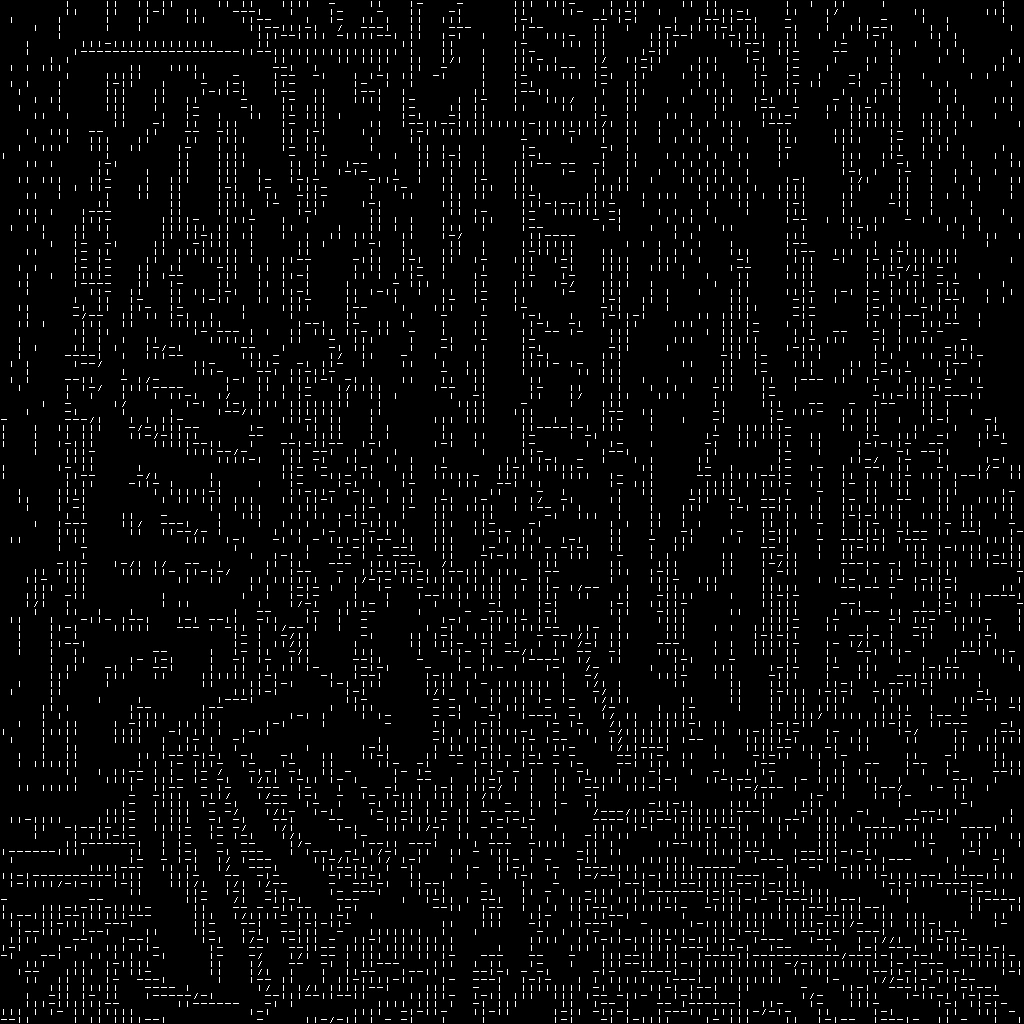
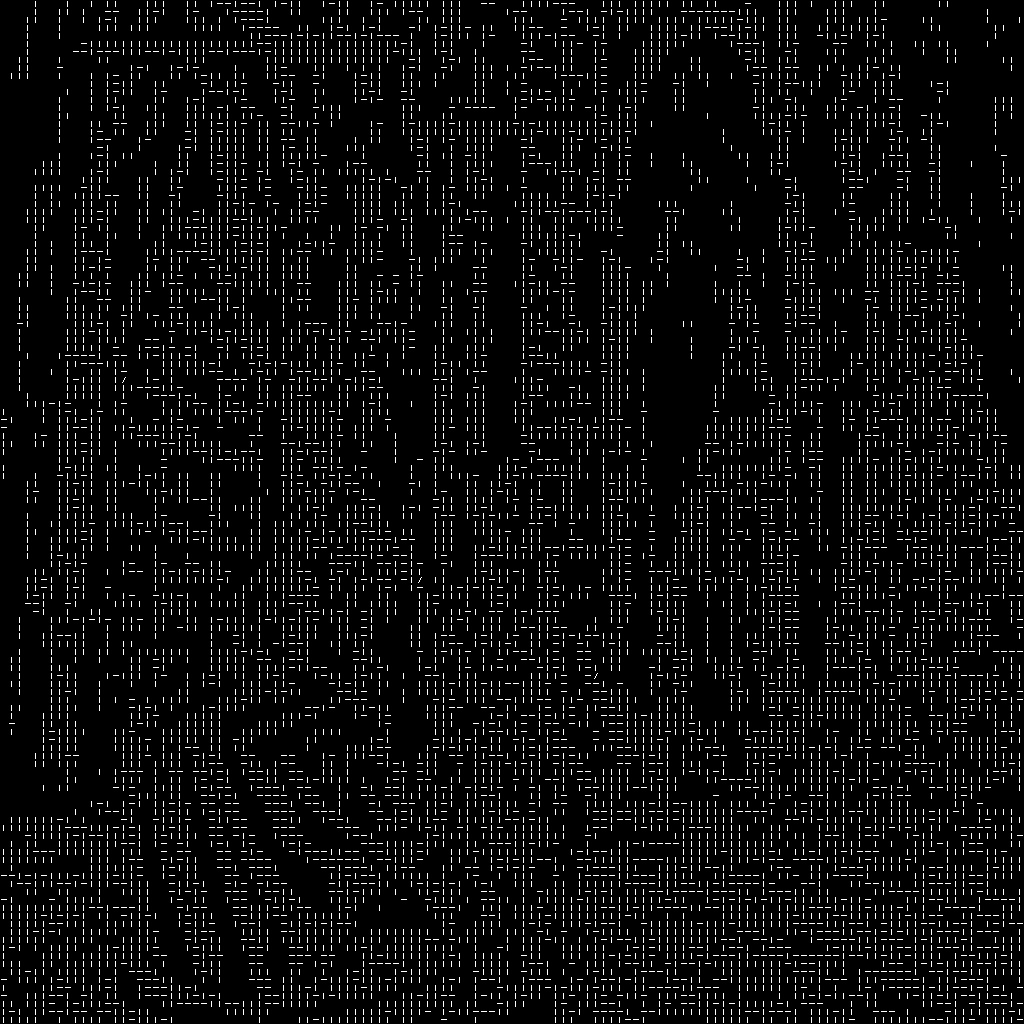
saturating edge , edge_filling

diff --git a/tryout.py b/tryout.py
@@ -28,6 +28,7 @@ def up_down_scaling(img, block_size):
 
     return up_scaling
 
+
     
 
 def fetch_ascii_char(ascii_image, char_index, ascii_len, char_size=(8, 8)):
@@ -100,50 +101,50 @@ def edge_ascii_image(img):
             edge_art[i:i+ char_size[0],j:j+char_size[1]] = edge_char
     
     display(edge_art)
-    return edge_art
-    # ed_count +=1
-    # file_name = 'result/edge_ascii_' + str(ed_count) + '.jpg'
-    # cv2.imwrite(file_name, edge_art)
+    # return edge_art
+    ed_count +=1
+    file_name = 'result/saturation_edge_ascii_' + str(ed_count) + '.jpg'
+    cv2.imwrite(file_name, edge_art)
 
 
-def block_based_ascii_representation(img, block_size=64, num_buckets=5):
-    height, width = img.shape
-    ascii_image = np.zeros_like(img)
-    edge_ascii=cv2.imread('edgesASCII.png',cv2.IMREAD_GRAYSCALE)
+# def block_based_ascii_representation(img, block_size=64, num_buckets=5):
+#     height, width = img.shape
+#     ascii_image = np.zeros_like(img)
+#     edge_ascii=cv2.imread('edgesASCII.png',cv2.IMREAD_GRAYSCALE)
     
-    # Divide the image into blocks of size block_size x block_size
-    for i in range(0, height, block_size):
-        for j in range(0, width, block_size):
-            block = img[i:i + block_size, j:j + block_size]
-            # print(1,block.shape)
-            # display(block)
+#     # Divide the image into blocks of size block_size x block_size
+#     for i in range(0, height, block_size):
+#         for j in range(0, width, block_size):
+#             block = img[i:i + block_size, j:j + block_size]
+#             # print(1,block.shape)
+#             # display(block)
             
             
-            # Flatten and count the occurrence of each bucket
-            flat_block = block.flatten()
-            print(2,flat_block, flat_block.shape)
-            bucket_counts = np.histogram(flat_block, bins=num_buckets, range=(0, 255))[0]
-            # print(bucket_counts, bucket_counts.shape)
-            # plt.figure(figsize=(8, 4))
-            # plt.bar(bin_edges[:-1], counts, width=np.diff(bin_edges), edgecolor='black', align='edge')
-            # plt.title('Histogram of Pixel Intensities in Block')
-            # plt.xlabel('Pixel Intensity')
-            # plt.ylabel('Frequency')
-            # plt.xticks(bin_edges)  # Show bin edges on the x-axis
-            # plt.grid(axis='y')
-            # plt.show()
+#             # Flatten and count the occurrence of each bucket
+#             flat_block = block.flatten()
+#             print(2,flat_block, flat_block.shape)
+#             bucket_counts = np.histogram(flat_block, bins=num_buckets, range=(0, 255))[0]
+#             # print(bucket_counts, bucket_counts.shape)
+#             # plt.figure(figsize=(8, 4))
+#             # plt.bar(bin_edges[:-1], counts, width=np.diff(bin_edges), edgecolor='black', align='edge')
+#             # plt.title('Histogram of Pixel Intensities in Block')
+#             # plt.xlabel('Pixel Intensity')
+#             # plt.ylabel('Frequency')
+#             # plt.xticks(bin_edges)  # Show bin edges on the x-axis
+#             # plt.grid(axis='y')
+#             # plt.show()
             
-            # Elect the most frequent bucket as the representative
-            representative_bucket = np.argmax(bucket_counts)
+#             # Elect the most frequent bucket as the representative
+#             representative_bucket = np.argmax(bucket_counts)
             
-            # Map the representative bucket to an ASCII character index
-            ascii_char_index = representative_bucket * (255 // num_buckets)
+#             # Map the representative bucket to an ASCII character index
+#             ascii_char_index = representative_bucket * (255 // num_buckets)
             
-            # Assign the representative character to the entire block
-            ascii_image[i:i + block_size, j:j + block_size] = ascii_char_index
+#             # Assign the representative character to the entire block
+#             ascii_image[i:i + block_size, j:j + block_size] = ascii_char_index
     
-    display(ascii_image)
-    return ascii_image
+#     display(ascii_image)
+#     return ascii_image
 
 
 
@@ -152,9 +153,9 @@ img_loc = 'samples'
 for file_name in os.listdir(img_loc):
     f = os.path.join(img_loc,file_name)
     if os.path.isfile(f):
-        if count ==2:
-            break
-        count+=1
+        # if count ==2:
+        #     break
+        # count+=1
         #1st part
         # img = cv2.imread(f)
         # img = image_dimension(img)
@@ -171,7 +172,7 @@ for file_name in os.listdir(img_loc):
         # #2nd part
         # img2 = cv2.imread(f)
         # img2 = image_dimension(img2)
-        # img2 = desat_graysc(img2,True)
+        # img2 = desat_graysc(img2,False)
         # # img2 = cv2.fastNlMeansDenoising(img2, None, 20, 7, 21) 
         # # print('Noise')
         # # display(img2)
@@ -188,31 +189,35 @@ for file_name in os.listdir(img_loc):
         # print('contrast-dog')
         # display(img2)
 
-        # # img2 = extended_sobel(img2)
+        # img2 = extended_sobel(img2)
         # img2 = gradient_direction(img2)
         # display(img2)
 
-        # img2 = up_down_scaling(img2,block_size=8)
+        # # img2 = up_down_scaling(img2,block_size=8)
         # edge_ascii_image(img2)
 
 
         #3rd part 
         img3 = cv2.imread(f)
         img3 = image_dimension(img3)
-        img3 = desat_graysc(img3,True)
-        img3 = up_down_scaling(img3,block_size=8)
-        laplace = cv2.Laplacian(img3, cv2.CV_8U)
-        display(laplace)
-        img3 = cv2.normalize(laplace, img3, 0, 600, cv2.NORM_MINMAX)
+        # img3 = hsv_val(img3)
+        # img3 = threshold_saturation(img3)
+        img3 = satval_gradient(img3)
+        img3 = desat_graysc(img3,False)
+
+        # img3 = up_down_scaling(img3,block_size=8)
+        # laplace = cv2.Laplacian(img3, cv2.CV_8U)
+        # display(laplace)
+        img3 = cv2.normalize( img3, 0, 600, cv2.NORM_MINMAX)
         display(img3)
         # img3 = cv2.cvtColor(img3, cv2.COLOR_BGR2GRAY)
         # display(img3)
-        # img3 = sobel_grad_orient(img3)
+        
         img3 = image_sharpen(img3)
-        # img3 = enhance_contrast(img3)
-        # print('enhance_contrast')
-        # display(img3)
-        img3 = difference_of_Gaussian(img3,sigma1=1.5,sigma2=6.0)
+        img3 = enhance_contrast(img3)
+        print('enhance_contrast')
+        display(img3)
+        img3 = difference_of_Gaussian(img3,sigma1=1.0,sigma2=6.0)
         print('difference_of_Gaussian')
         display(img3)
         img3 = gradient_direction(img3)

diff --git a/iofile.py b/iofile.py
@@ -17,9 +17,65 @@ def desat_graysc(img,cond):
     
     elif cond ==False:
         desaturated_image = np.mean(img, axis=2).astype(np.uint8)
-        print('desaturated_image')
         display(desaturated_image)
         return desaturated_image
+
+#  desaturated_image = cv2.cvtColor(img, cv2.COLOR_BGR2HLS) #np.mean(img, axis=2).astype(np.uint8)
+#         print('HLS method')
+#         display(desaturated_image)
+#         desaturated_image[:,:,2] = desaturated_image[:,:, 2] *0.2
+#         display(desaturated_image)
+#         desaturated_image = cv2.cvtColor(desaturated_image, cv2.COLOR_HLS2BGR) 
+#         print('desaturated_image')
+#         display(desaturated_image)
+#         desaturated_image = np.mean(img, axis=2).astype(np.uint8)
+#         display(desaturated_image)
+
+def hsv_val(img):
+    hsv_img = cv2.cvtColor(img,cv2.COLOR_BGR2HSV_FULL)
+    h, s, val_img = cv2.split(hsv_img)
+    val_img = cv2.multiply(val_img, 1.5)
+    display(val_img)
+    val_img =  np.clip(val_img, 0, 255).astype(np.uint8)
+    display(val_img)
+    filter_val_img = cv2.merge([h, s, val_img])
+    display(filter_val_img)
+    filter_val_img = cv2.cvtColor( filter_val_img, cv2.COLOR_HSV2BGR)
+    display(filter_val_img)
+
+    return filter_val_img
+
+
+
+def threshold_saturation(img):
+    hsv_img = cv2.cvtColor(img,cv2.COLOR_BGR2HSV_FULL)
+    _, saturate_img, _ = cv2.split(hsv_img)
+    saturate_img = cv2.multiply(saturate_img, 1.5)
+    saturate_img = np.clip(saturate_img, 0, 255).astype(np.uint8)
+    
+    print('sat_thres')
+    display(saturate_img)
+
+    return saturate_img
+
+def satval_gradient(img):
+    hsv_img = cv2.cvtColor(img,cv2.COLOR_BGR2HSV_FULL)
+    h, saturate_img, val_img = cv2.split(hsv_img)
+
+    val_img = cv2.multiply(val_img, 1.5)
+    val_img =  np.clip(val_img, 0, 255).astype(np.uint8)
+
+    saturate_img = cv2.multiply(saturate_img, 2.5)
+    saturate_img = np.clip(saturate_img, 0, 255).astype(np.uint8)
+
+    filter_img = cv2.merge([h, saturate_img, val_img])
+    filter_img = cv2.cvtColor( filter_img, cv2.COLOR_HSV2BGR)
+    display(filter_img)
+
+    return filter_img
+
+
+
 
 def image_sharpen(img): #Image sharpening kernel
     kernel = np.array([[-1,-1,-1], [-1,9,-1], [-1,-1,-1]]) / 1
@@ -29,17 +85,12 @@ def image_sharpen(img): #Image sharpening kernel
 
 def gradient_direction(img):
     Sx = cv2.Sobel(img, cv2.CV_32F, 1, 0, ksize=3)
-    Sy = cv2.Sobel(img, cv2.CV_32F, 0, 1, ksize=3)
-
-    
+    Sy = cv2.Sobel(img, cv2.CV_32F, 0, 1, ksize=3)    
 
     grad_theta = np.atan2(Sy,Sx)/(2*np.pi)
     grad_theta[grad_theta <= -0.4 ] = 0
     print('grad_theta',grad_theta)      
-    theta_normalise = np.add(grad_theta,0.5,where = grad_theta!=0 )
-
-    print(1,theta_normalise)
-    
+    theta_normalise = np.add(grad_theta,0.5,where = grad_theta!=0 )    
     theta_image = (theta_normalise*255).astype(np.uint8)
 
     return theta_image

diff --git a/overlap.py b/overlap.py
@@ -3,30 +3,27 @@ import numpy as np
 from iofile import *
 
 # Load the two images
-img1 = cv2.imread('result/ascii2.jpg')  
-img2 = cv2.imread('result/edge_ascii_2.jpg')  
+img1 = cv2.imread('result/ascii8.jpg')  
+img2 = cv2.imread('result/saturation_edge_ascii_8.jpg')  
 
 
 gray1 = desat_graysc(img1,True)
 gray2 = desat_graysc(img2,True)
 
-# Threshold Image 2 to create a mask of edges
+# Thresholding edge_image to create a mask of edges
 _, mask = cv2.threshold(gray2, 50, 255, cv2.THRESH_BINARY)
 
 # Invert the mask to get the non-edge areas
 mask_inv = cv2.bitwise_not(mask)
 
-# Use the mask to keep edges from Image 2
+# Use mask to keep edges from Image 2
 edges_from_img2 = cv2.bitwise_and(gray2, gray2, mask=mask)
 
-# Use the inverted mask to keep the non-edge parts from Image 1
+# Use inverted mask to keep  non-edge parts from Image 1
 filled_from_img1 = cv2.bitwise_and(gray1, gray1, mask=mask_inv)
 
 # Combine the edges and filled areas
 combined_image = cv2.add(edges_from_img2, filled_from_img1)
 
-# Display the result
-cv2.imshow('Combined ASCII Art', combined_image)
-cv2.waitKey(0)
-cv2.destroyAllWindows()
-cv2.imwrite('result/combined_ascii.jpg', combined_image)
+display(combined_image)
+cv2.imwrite('result/combined_ascii8.jpg', combined_image)
